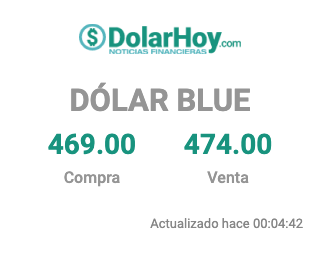
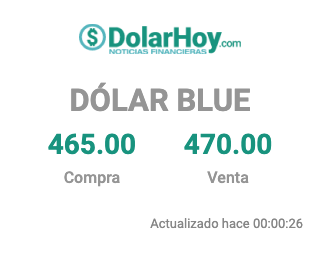
creo que eso es todo

Changed region(s): [[0.6364, 0.4923, 0.7273, 0.6154], [0.2424, 0.4923, 0.303, 0.6154], [0.8485, 0.8308, 0.9394, 0.8923]]

diff --git a/README.md b/README.md
@@ -1,38 +1,17 @@
-# USD-ARS Rate Notifications
+# USD-ARS Screenshot embedded
 
-Manda las cotizaciones de [Dolarito](https://www.dolarito.ar/) por webhook a Google Meets y Discord son los unicos con que probe.
+Manda las cotizaciones de [dolar hoy, blue](https://dolarhoy.com/i/cotizaciones/dolar-blue) por webhook Discord como una imagen embebida.
+> Requiere chrome instalado ya que utiliza esto para tomar la screenshot, por lo que no funciona en todos lados.
 
 ## Envs
 
 *WEBHOOK_URL*: Obviamente el webhook que requiere para mandar la notificaicon
-*ENDPOINT_URL*: Por default uso `https://www.dolarito.ar/api/frontend/quotations`, pero se puede pisar.
-*INFLUXDB_URL*: Ademas podes ponerlo en una db de influx para verlo por grafana.
 
 ## Docker / Kubernetes
 
 Se puede bajar tal cual esta y compilar con los valores deseados, utilizar el yaml que dejo aca para que corra como cronjob en kubernetes o usar esta imagen `quay.io/agustinlare/usdarsrate`.
 
-docker run -e WEBHOOK_URL="<WEBHOOK>" -e ENDPOINT_URL="<ENDPOINT>" -e INFLUXDB_URL="<INFLUXDB_URL>" -itd quay.io/agustinlare/usdarsrate
+docker run -e WEBHOOK_URL="<WEBHOOK>" -itd quay.io/agustinlare/usdarsrate:screenshot
 
-### Tags
-* x86: latest
-* Arm: arm
-
-## InfluxDB
-
-Conectado al influxdb estos son los comandos para crear la base de datos
-
-```
-CREATE DATABASE dolar WITH DURATION 30d REPLICATION 1 SHARD DURATION 1d NAME autogen
-CREATE RETENTION POLICY "one_month" ON "dolar" DURATION 30d REPLICATION 1 DEFAULT
-```
-
-```
-> SELECT "sell" AS "mean_sell" FROM "dolar"."one_month"."exchange_rate"
-name: exchange_rate
-time                mean_sell
-----                ---------
-1682193054000000000 442,00
-1682193211000000000 442,00
-1682193314000000000 442,00
-```
+## Ejemplo
+![Alt text](./screenshot.png)
